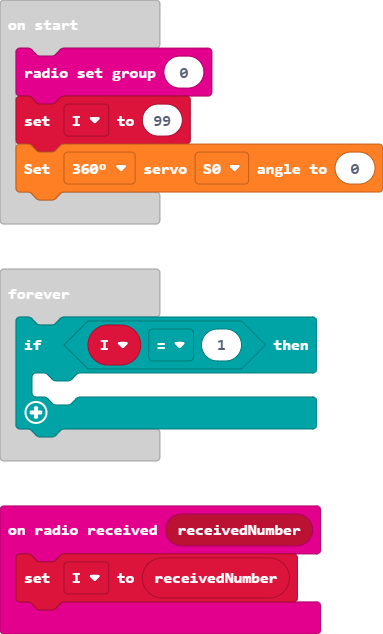
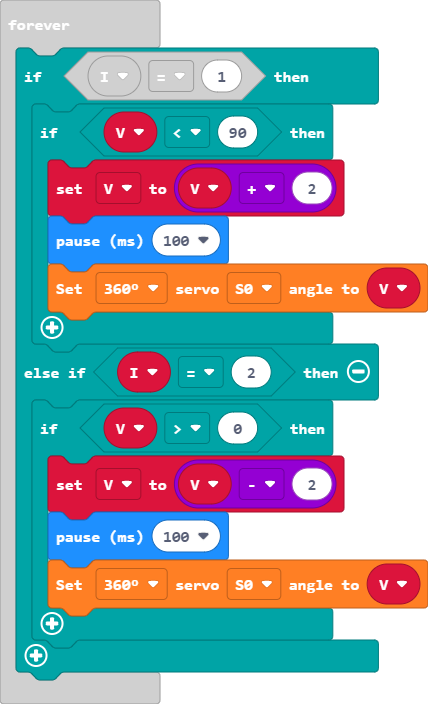
Update main.blocks, main.ts

diff --git a/main.ts b/main.ts
@@ -1,12 +1,23 @@
 radio.onReceivedNumber(function (receivedNumber) {
     I = receivedNumber
 })
+let V = 0
 let I = 0
 radio.setGroup(0)
 I = 99
 wuKong.setServoAngle(wuKong.ServoTypeList._360, wuKong.ServoList.S0, 0)
 basic.forever(function () {
     if (I == 1) {
-    	
+        if (V < 90) {
+            V = V + 2
+            basic.pause(100)
+            wuKong.setServoAngle(wuKong.ServoTypeList._360, wuKong.ServoList.S0, V)
+        }
+    } else if (I == 2) {
+        if (V > 0) {
+            V = V - 2
+            basic.pause(100)
+            wuKong.setServoAngle(wuKong.ServoTypeList._360, wuKong.ServoList.S0, V)
+        }
     }
 })
